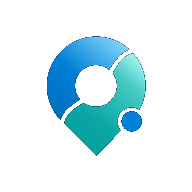
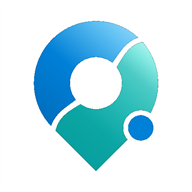
Mettre les icônes d'installation de l'app sur fond blanc, à partir du pin net.

Changed region(s): [[0.1562, 0.0938, 0.8438, 0.9062]]

diff --git a/sw.js b/sw.js
@@ -28,7 +28,8 @@ const CACHE_PREFIX = 'trouve-clinique-est-';
 // meta Search Console retirée des cartes (conservée sur l’accueil).
 // v66-icones-blanc (6 septembre 2026) : icônes PWA Est sur fond blanc.
 // v67-install-mobile (6 septembre 2026) : bouton d'installation de nouveau visible sur téléphone.
-const CACHE = CACHE_PREFIX + 'v67-install-mobile';
+// v68-icones-blanc (8 septembre 2026) : icônes d’installation fond blanc, depuis le pin 512.
+const CACHE = CACHE_PREFIX + 'v68-icones-blanc';
 const ANCIEN_PREFIX = 'ptem-2027-';
 
 /* Portée légitime de cette PWA. Toute autre portée (en pratique « / ») vient d'un
